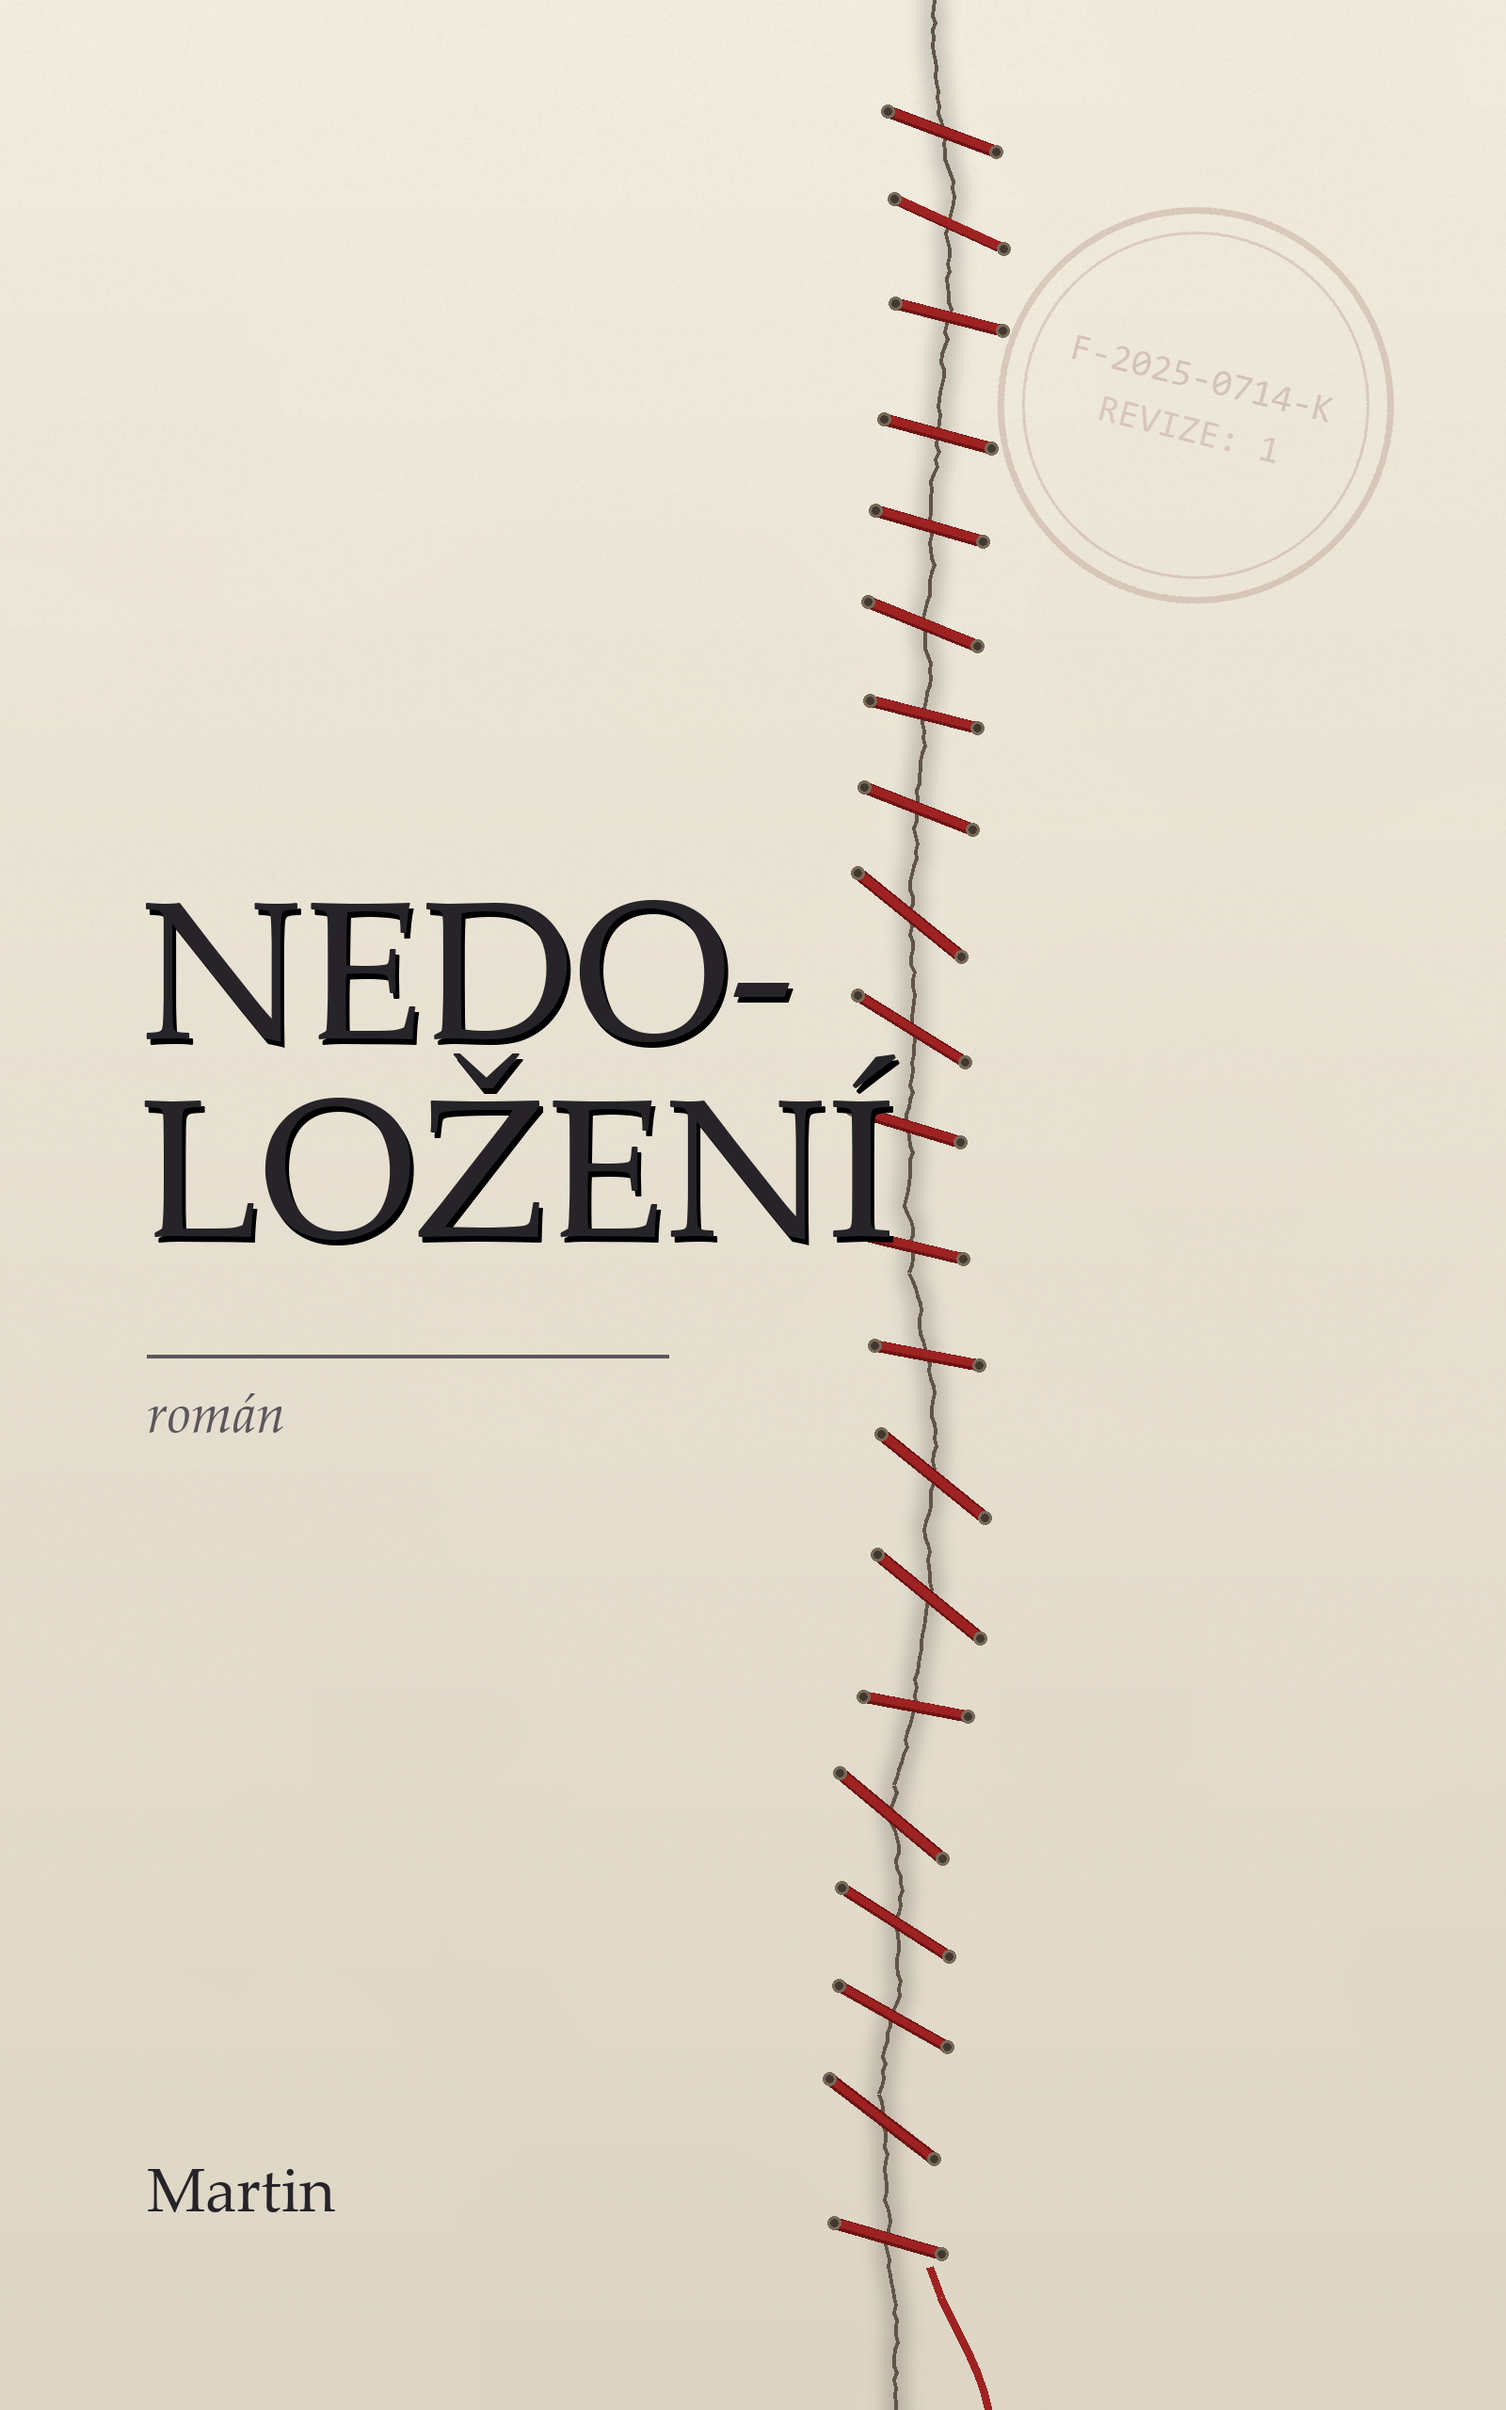
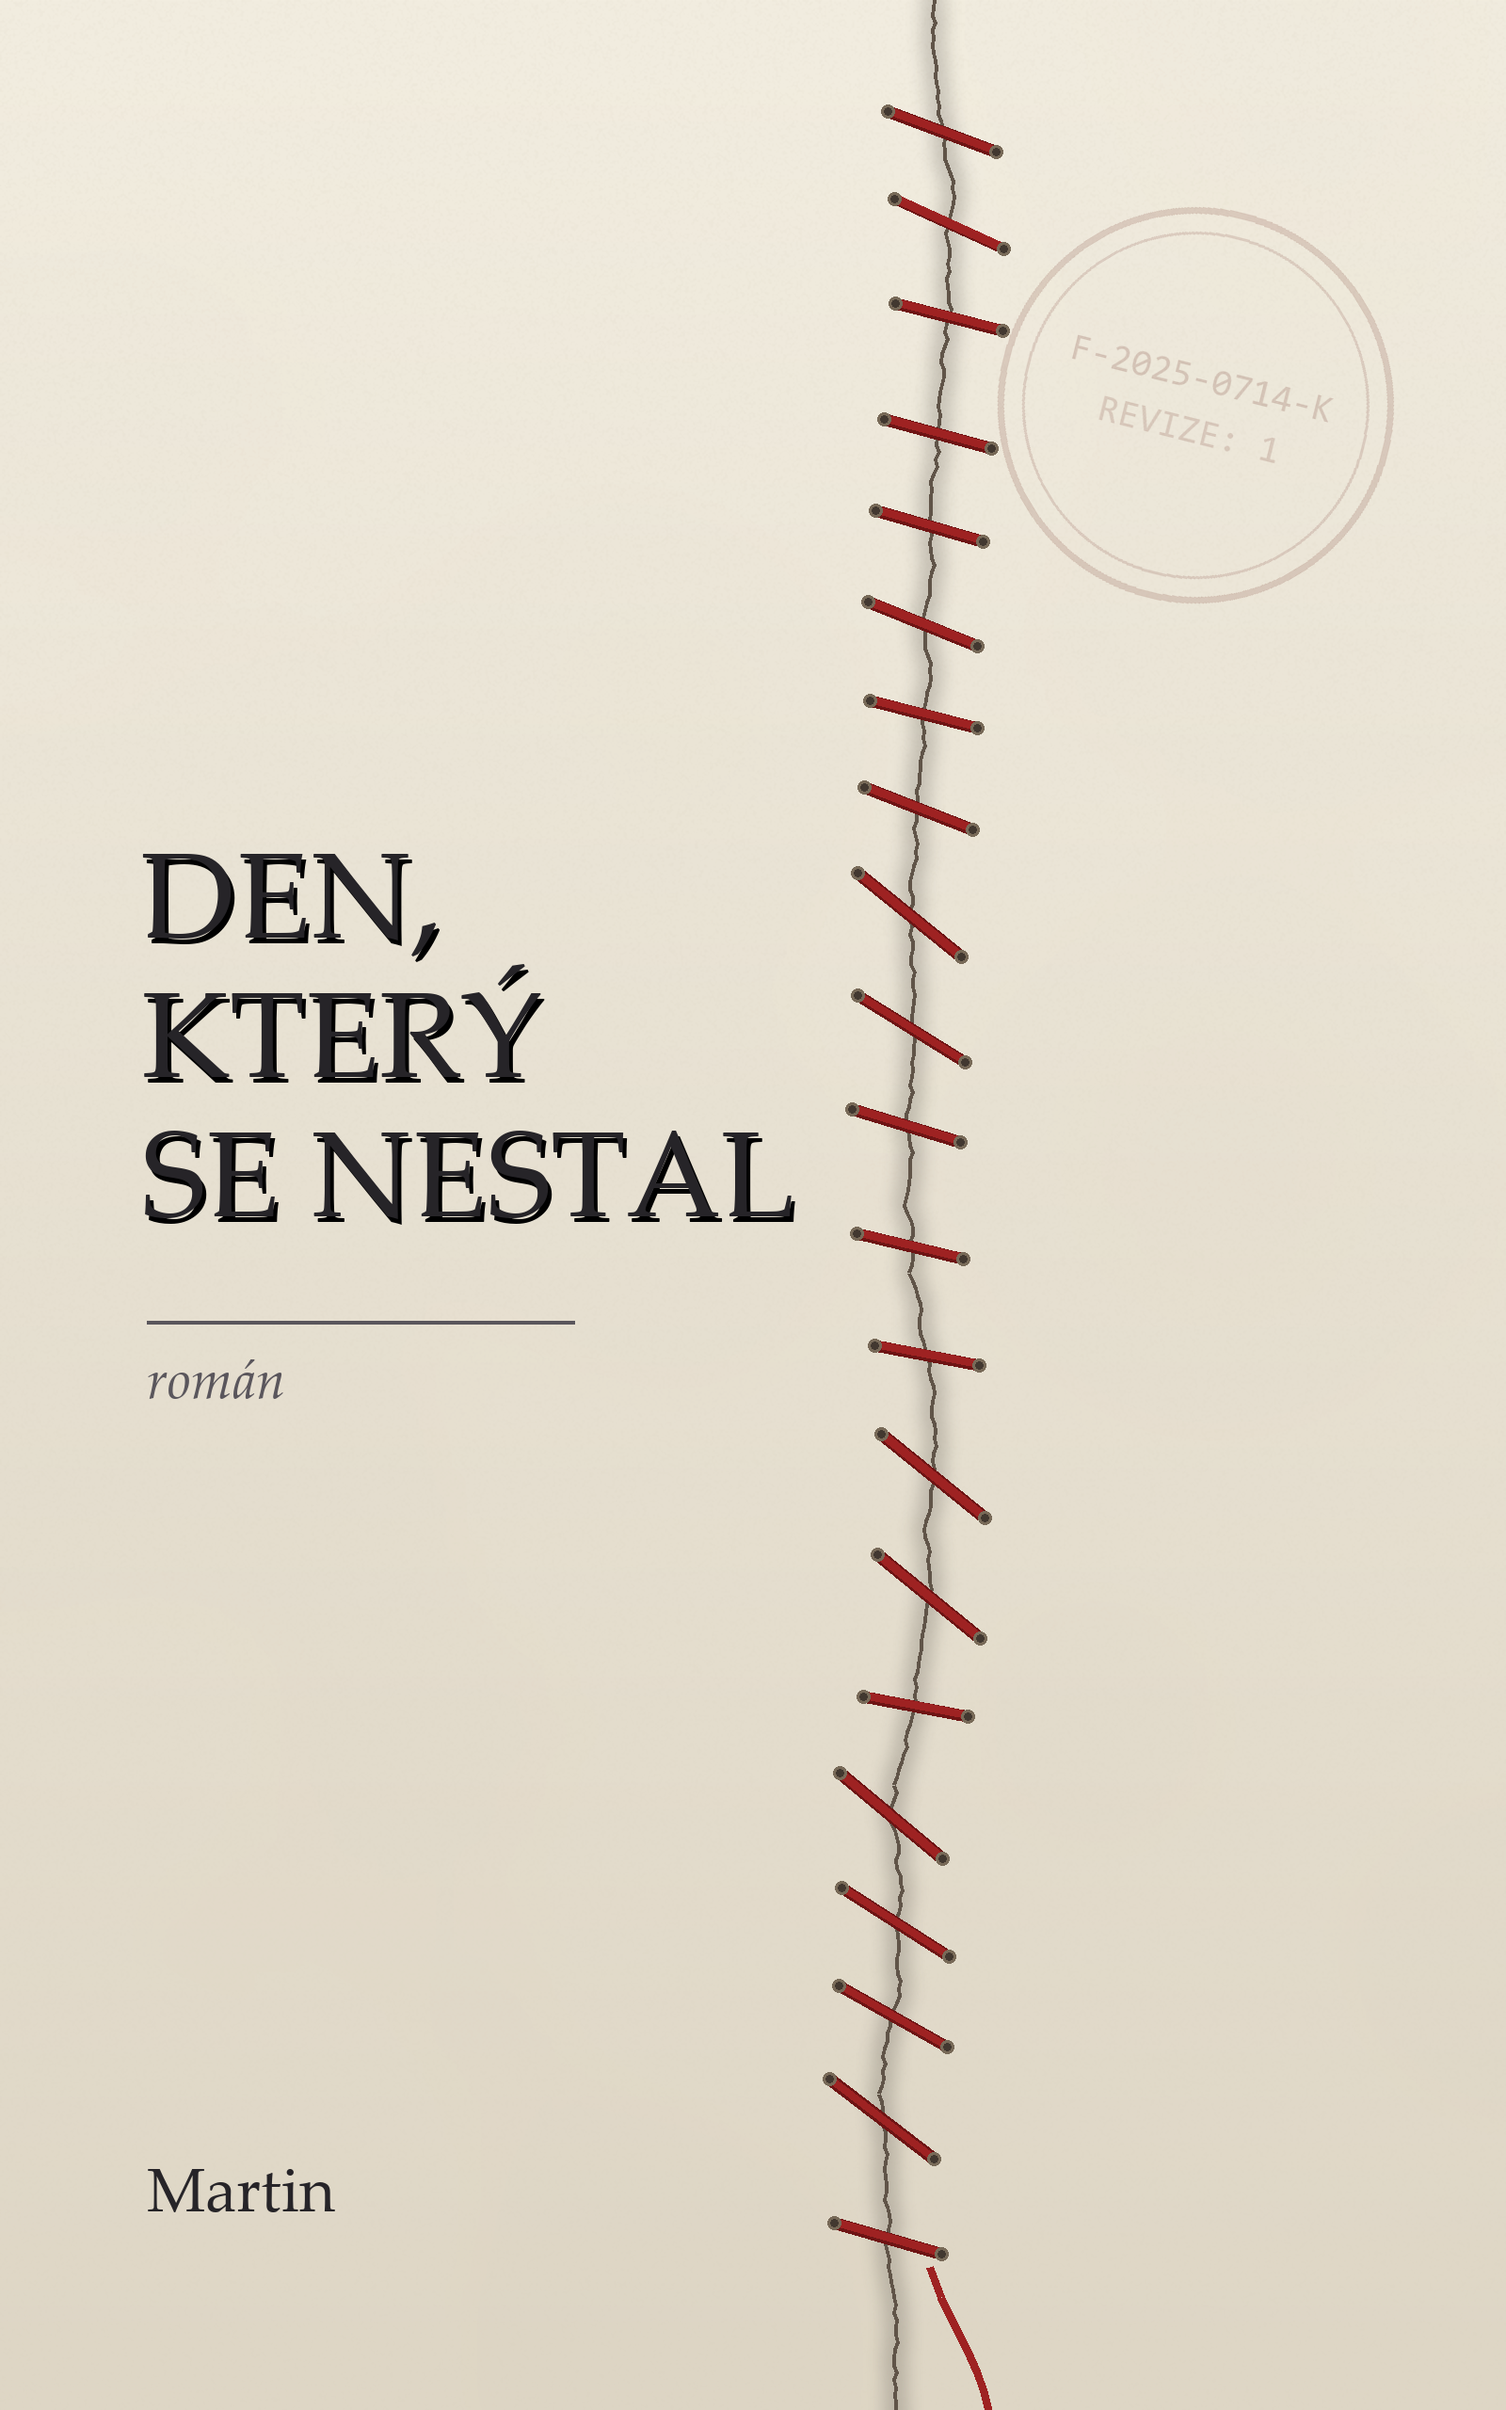
Title: Nedolozeni -> "Den, ktery se nestal"
The K0 working title was officialese - a real Czech word that only ever
appears inside administrative phrases, so it read as a fragment of a form
and was hard to say aloud. Replaced with a title chosen from a four-way
shortlist across different registers (ADR-012).

Propagated to every live use: assemble config, EPUB/PDF metadata, colophon,
cover, README, CLAUDE.md, style guide, plot architecture, gate. ADR-001 and
the K0 history entry keep the working title as the record of that decision.

make_cover.py now auto-fits the title block into the clear column left of the
seam, so a title change no longer needs layout work.

Rebuilt and verified: PDF 178 pages, new title on the title page, no trace of
the old one, diacritics intact; EPUB metadata and embedded cover correct.
Gate GREEN, 0 hard violations.

Changed region(s): [[0.0938, 0.3438, 0.5938, 0.5312], [0.0938, 0.5625, 0.1875, 0.5938]]

diff --git a/tools/make_cover.py b/tools/make_cover.py
@@ -1,5 +1,5 @@
 # -*- coding: utf-8 -*-
-"""Cover for 'Nedoložení' — paper with a single red stitch seam (E4).
+"""Cover for 'Den, který se nestal' — paper with a single red stitch seam (E4).
 
 1600x2560 px (1:1.6, Kindle-friendly). Aged-paper field, faint file-stamp
 ring, a torn seam running down the page held by red thread stitches, title
@@ -134,25 +134,41 @@ def font(path, size):
     return ImageFont.truetype(path, size)
 
 try:
-    f_title = font("C:/Windows/Fonts/pala.ttf", 208)
-    f_author = font("C:/Windows/Fonts/pala.ttf", 66)
+    TITLE_FACE = "C:/Windows/Fonts/pala.ttf"
+    f_author = font(TITLE_FACE, 66)
     f_sub = font("C:/Windows/Fonts/palai.ttf", 56)
 except OSError:
-    f_title = font("C:/Windows/Fonts/georgia.ttf", 208)
-    f_author = font("C:/Windows/Fonts/georgia.ttf", 66)
+    TITLE_FACE = "C:/Windows/Fonts/georgia.ttf"
+    f_author = font(TITLE_FACE, 66)
     f_sub = font("C:/Windows/Fonts/georgiai.ttf", 56)
 
-# title, two lines to sit left of/over the seam
+# Title sits left of the seam; the seam wanders to x >= 0.56*W, so the text
+# block is fitted into the clear column rather than set at a fixed size.
+TITLE_LINES = ["DEN,", "KTERÝ", "SE NESTAL"]
 tx0 = 150
-ty0 = 950
-d.text((tx0 + 4, ty0 + 6), "NEDO-", font=f_title, fill=(0, 0, 0, 60))
-d.text((tx0, ty0), "NEDO-", font=f_title, fill=INK)
-d.text((tx0 + 4, ty0 + 216), "LOŽENÍ", font=f_title, fill=(0, 0, 0, 60))
-d.text((tx0, ty0 + 210), "LOŽENÍ", font=f_title, fill=INK)
+MAXW = 700
+
+title_size = 210
+while title_size > 48:
+    f_try = font(TITLE_FACE, title_size)
+    widest = max(f_try.getbbox(t)[2] - f_try.getbbox(t)[0] for t in TITLE_LINES)
+    if widest <= MAXW:
+        break
+    title_size -= 2
+f_title = font(TITLE_FACE, title_size)
+lead = int(title_size * 1.14)
+
+ty0 = 900
+y = ty0
+for line in TITLE_LINES:
+    d.text((tx0 + 4, y + 6), line, font=f_title, fill=(0, 0, 0, 60))
+    d.text((tx0, y), line, font=f_title, fill=INK)
+    y += lead
 
 # thin rule + subtitle line
-d.line([(tx0 + 6, ty0 + 490), (tx0 + 560, ty0 + 490)], fill=INK_SOFT, width=4)
-d.text((tx0 + 6, ty0 + 530), "román", font=f_sub, fill=INK_SOFT)
+rule_y = y + 60
+d.line([(tx0 + 6, rule_y), (tx0 + 460, rule_y)], fill=INK_SOFT, width=4)
+d.text((tx0 + 6, rule_y + 40), "román", font=f_sub, fill=INK_SOFT)
 
 # author, bottom left
 d.text((tx0 + 6, H - 260), "Martin", font=f_author, fill=INK)

diff --git a/tools/gate.py b/tools/gate.py
@@ -1,5 +1,5 @@
 #!/usr/bin/env python3
-"""Nedoložení - the quality gate (S5).
+"""Den, který se nestal - the quality gate (S5).
 
 One command, standard library only:
 
@@ -975,7 +975,7 @@ def assemble(repo: Repo, out: Path) -> int:
 
     part_label = cfg.get("part_label", "Část")
     inter_label = cfg.get("interlude_label", "Fixace")
-    lines = ["---", f"title: {cfg.get('title', 'Nedoložení')}",
+    lines = ["---", f"title: {cfg.get('title', 'Den, který se nestal')}",
              f"lang: {cfg.get('lang', 'cs-CZ')}", "---", ""]
     current_part = None
     for ch in sorted(chapters, key=sort_key):
@@ -1113,7 +1113,7 @@ def selftest(repo: Repo) -> int:
 # --------------------------------------------------------------------------
 
 def main(argv: list[str] | None = None) -> int:
-    ap = argparse.ArgumentParser(description="Nedoložení quality gate")
+    ap = argparse.ArgumentParser(description="Den, který se nestal quality gate")
     ap.add_argument("paths", nargs="*", type=Path,
                     help="check only these manuscript files")
     ap.add_argument("--cards", action="store_true",

diff --git a/docs/adr.md b/docs/adr.md
@@ -16,4 +16,5 @@
 | ADR-008 | 2026-08-04 | Length landed at ~53,000 words against the 57,200 budget (−7 %); accepted rather than padded. Every unit sits inside its hard band, all three review panels reported no thin chapter, and the blind full-book audit called the manuscript "remarkably free of fat". Any growth belongs to P2 depth passes, never to filler written to hit a number. | accepted |
 | ADR-009 | 2026-08-04 | P2 editorial posture — "polish, no surgery". Four independent full-book cold reads (pacing · readability · pull · structure) all returned the same verdict, so the edit pass was scoped to line-level subtraction and clarification: no scene added, no chapter restructured, no unit re-ordered, no ledger row touched. Two book-wide operations were run deliberately: thinning the aphoristic paragraph-ending cadence (flagged convergently by two readers) and defending or fixing each of the 53 report-only gate notes. Chapter-closing beats, interlude voice/length, artefact blockquotes and the verbatim recurring formulae were declared untouchable up front. | accepted |
 | ADR-010 | 2026-08-03 | PDF engine — a portable `tectonic` on `D:` (path in gitignored `tools/local.ps1`) instead of a system TeX distribution: a full MiKTeX/TeX Live install would exhaust the small system drive, and the project's hard rule forbids writing to `C:`. `build.ps1` prefers any TeX engine on PATH and falls back to `$env:TECTONIC_HOME\tectonic.exe`, keeping the TeX bundle cache beside the engine. | accepted |
-| ADR-011 | 2026-08-04 | Book output — EPUB (reader) + MOBI (Kindle, converted from the EPUB by Calibre) + A5 PDF (print/screen), all from one assembled markdown file, built by `powershell tools\build.ps1`. Typesetting raised from 10pt/1.8cm to **11pt/2cm** after the first real build came out at 139 A5 pages against the ~200-page target (178 pages, ~300 words/page). Cover generated programmatically by `tools/make_cover.py` (Pillow, no external assets, seeded RNG → reproducible); front matter, colophon and metadata live in `book/`. Verified on the built artefacts, not the source: Czech diacritics, hyphenation, part titles and both framing sentences read back out of the PDF and the EPUB. | accepted |
+| ADR-011 | 2026-08-04 | Book output — EPUB (reader) + MOBI (Kindle, converted from the EPUB by Calibre) + A5 PDF (print/screen), all from one assembled markdown file, built by `powershell tools\build.ps1`. Typesetting raised from 10pt/1.8cm to **11pt/2cm** after the first real build came out at 139 A5 pages against the ~200-page target (178 pages, ~300 words/page). Cover generated programmatically by `tools/make_cover.py` (Pillow, no external assets, seeded RNG → reproducible; the title block auto-fits the clear column left of the seam, so a title change needs no layout work); front matter, colophon and metadata live in `book/`. Verified on the built artefacts, not the source: Czech diacritics, hyphenation, part titles and both framing sentences read back out of the PDF and the EPUB. | accepted |
+| ADR-012 | 2026-08-04 | Final title — ***Den, který se nestal***, replacing the K0 working title *Nedoložení* (ADR-001). The author rejected the working title as odd-sounding and un-Czech, and he was right: `nedoložení` is a real word but lives only in officialese ("z důvodu nedoložení dokladů"), so as a title it reads as a fragment of a form and is hard to say aloud. The replacement was chosen from a four-way shortlist spanning readable-commercial, literary-personal, cold-institutional and quiet-SF registers; the author picked the most readable one. Chapter 15 keeps its own title. Propagated to `book/assemble.yaml`, `book/metadata.yaml`, colophon, cover, build stem (`den-ktery-se-nestal`), README, CLAUDE.md, style guide, plot architecture and `tools/gate.py`; ADR-001 and the K0 history entry keep the working title as the record of what was decided then. | accepted |

diff --git a/dev_history.md b/dev_history.md
@@ -1,6 +1,22 @@
-# dev_history — *Nedoložení*
+# dev_history — *Den, který se nestal*
 
 > Professional changelog of progress + decisions. Newest entries on top. Decision index: `docs/adr.md`.
+
+## 2026-08-04 — Title · *Nedoložení* → ***Den, který se nestal***
+
+The author rejected the K0 working title as odd-sounding and un-Czech, and he was right —
+`nedoložení` is a real word but lives only in officialese, so as a title it reads as a fragment
+of a form. My first counter-proposal (a one-letter change to *Nedoložená*) was a bad answer to a
+fair complaint; the second attempt offered four titles across genuinely different registers and
+the author chose the most readable. Propagated everywhere the live title appears — assemble
+config, EPUB/PDF metadata, colophon, cover, build stem, README, CLAUDE.md, style guide, plot
+architecture, gate — while ADR-001 and the K0 entry below keep the working title as the record of
+what was decided then. The cover generator now auto-fits the title block into the clear column
+left of the seam, so a future title change costs nothing in layout. Rebuilt and re-verified: PDF
+178 pages with the new title on the title page and no trace of the old one, EPUB metadata and
+cover correct. Lesson: a "working title" that survives to the last prompt stops being provisional
+without anyone deciding it should — re-open it explicitly before typesetting, not after.
+→ ADR-012
 
 ## 2026-08-04 — P2 · Edited and typeset: EPUB + MOBI + 178-page A5 PDF, gate green
 

diff --git a/bible/plot-architecture.md b/bible/plot-architecture.md
@@ -7,7 +7,7 @@
 
 ## 0. Premise lock (ADR-001 po schválení)
 
-- **Titul (pracovní):** *Nedoložení*
+- **Titul (finální, P2):** *Den, který se nestal* (dříve pracovně *Nedoložení*)
 - **Logline:** Verifikátorka minulosti, která profesně dokazuje, že vzpomínky lžou, objeví šev ve
   vlastní paměti: utonutí její dcery je padělek. Jenže ve světě, kde pozorování minulost zapisuje,
   se doložená smrt nedá odestát — leda by z dějin vymazala to jediné, co ji drží: sebe samu jako

diff --git a/bible/style-guide.md b/bible/style-guide.md
@@ -1,4 +1,4 @@
-# Style guide — závazná pravidla prózy (Nedoložení)
+# Style guide — závazná pravidla prózy (Den, který se nestal)
 
 > Návrh S4 (2026-08-03). **Řídí veškerou W-fázovou prózu.** Gate konzumuje strojově čitelné
 > seznamy v §8 a prahy v §9 (parsuje je za běhu — rozšíření seznamu = rozšíření kontroly bez

diff --git a/CLAUDE.md b/CLAUDE.md
@@ -1,4 +1,4 @@
-# CLAUDE.md — *Nedoložení* (D:\Projekty\Scifi)
+# CLAUDE.md — *Den, který se nestal* (D:\Projekty\Scifi)
 
 Původní česky psaný SF román (~57k slov ≈ 200 stran A5), psaný NATIVNĚ ČESKY, jeden ověřitelný
 krok po druhém. **Dělba práce:** veškerá obsahová rozhodnutí (svět, postavy, zvraty, věty) patří

diff --git a/README.md b/README.md
@@ -1,4 +1,4 @@
-# Nedoložení (working title)
+# Den, který se nestal
 
 An original Czech-language science-fiction novel (~57k words), written natively in Czech, one
 verifiable slice at a time — bible-first, foreshadowing-ledger discipline, and a one-command

diff --git a/book/zz-colophon.md b/book/zz-colophon.md
@@ -2,7 +2,7 @@
 
 ## Tiráž {.unnumbered}
 
-**Nedoložení**
+**Den, který se nestal**
 
 Martin
 
